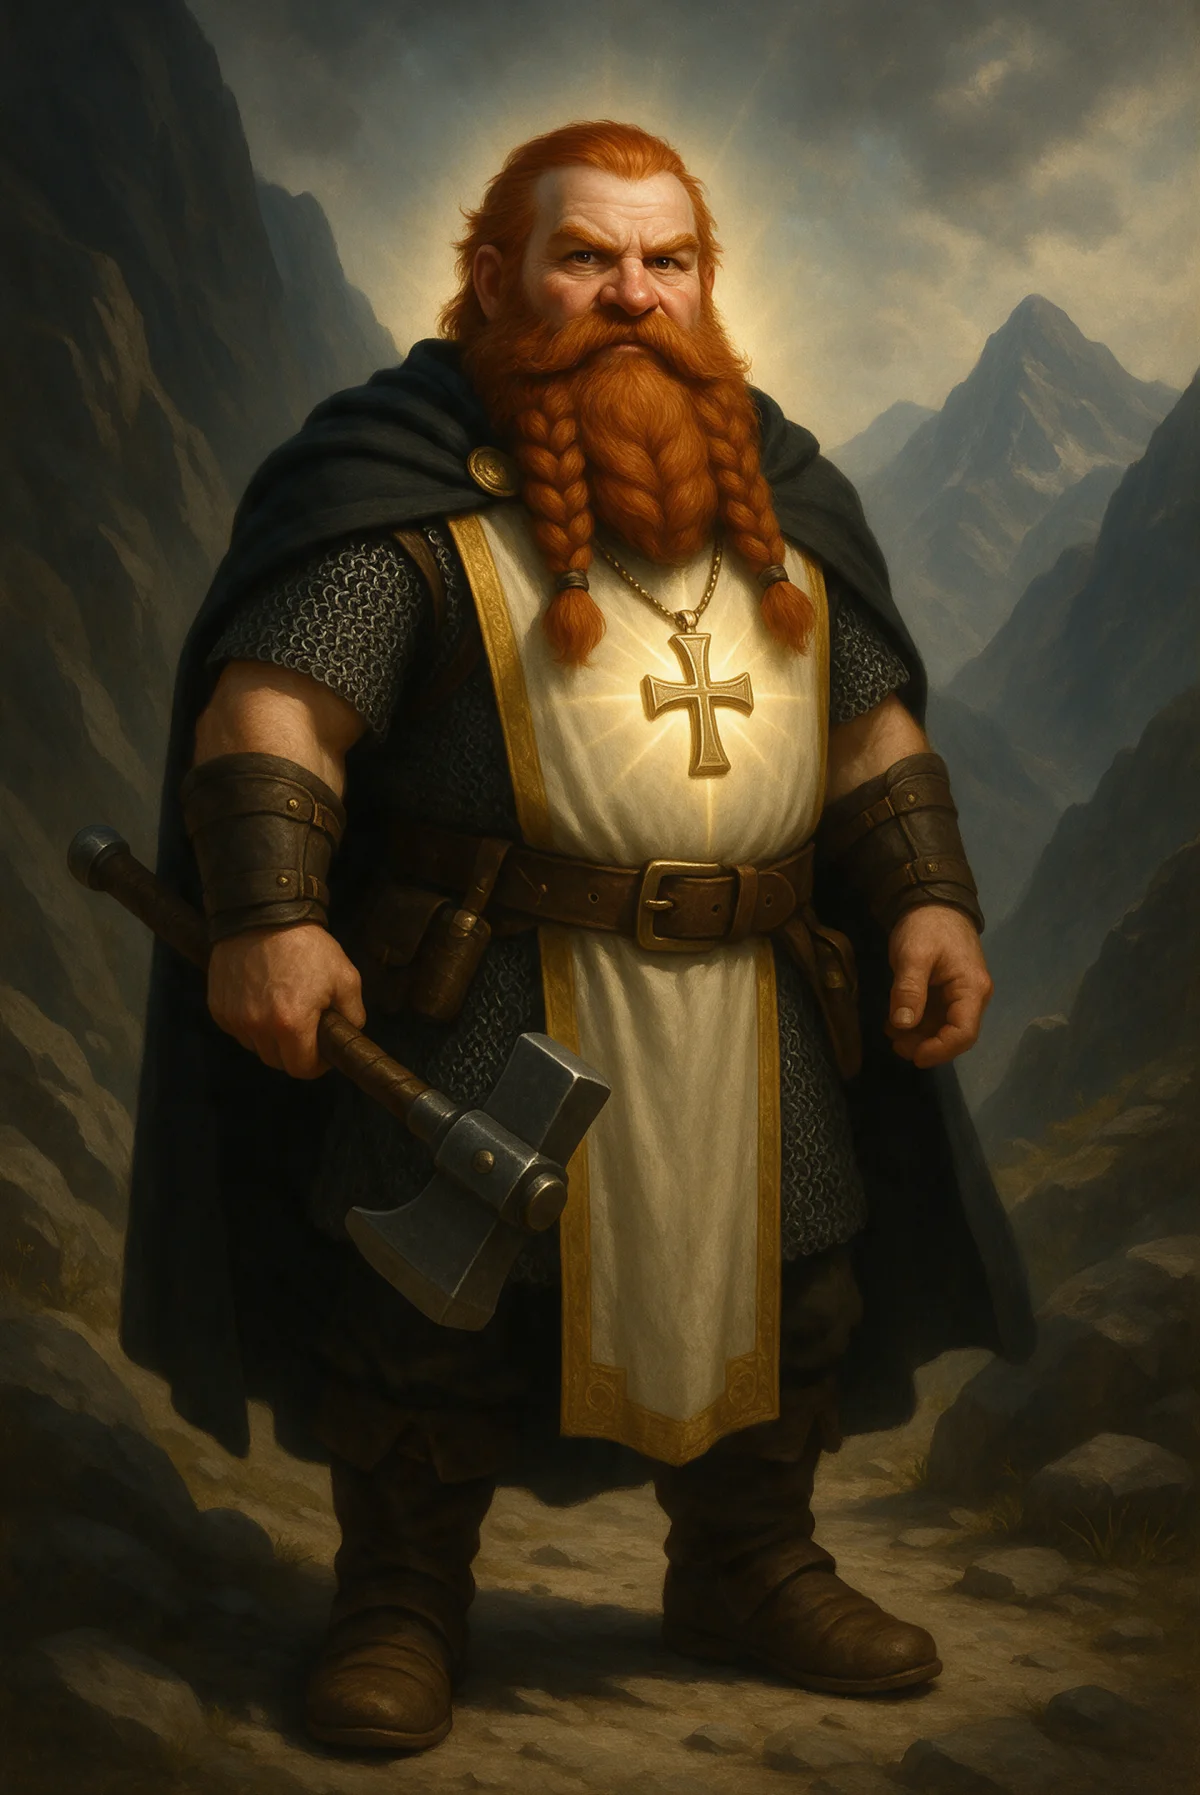
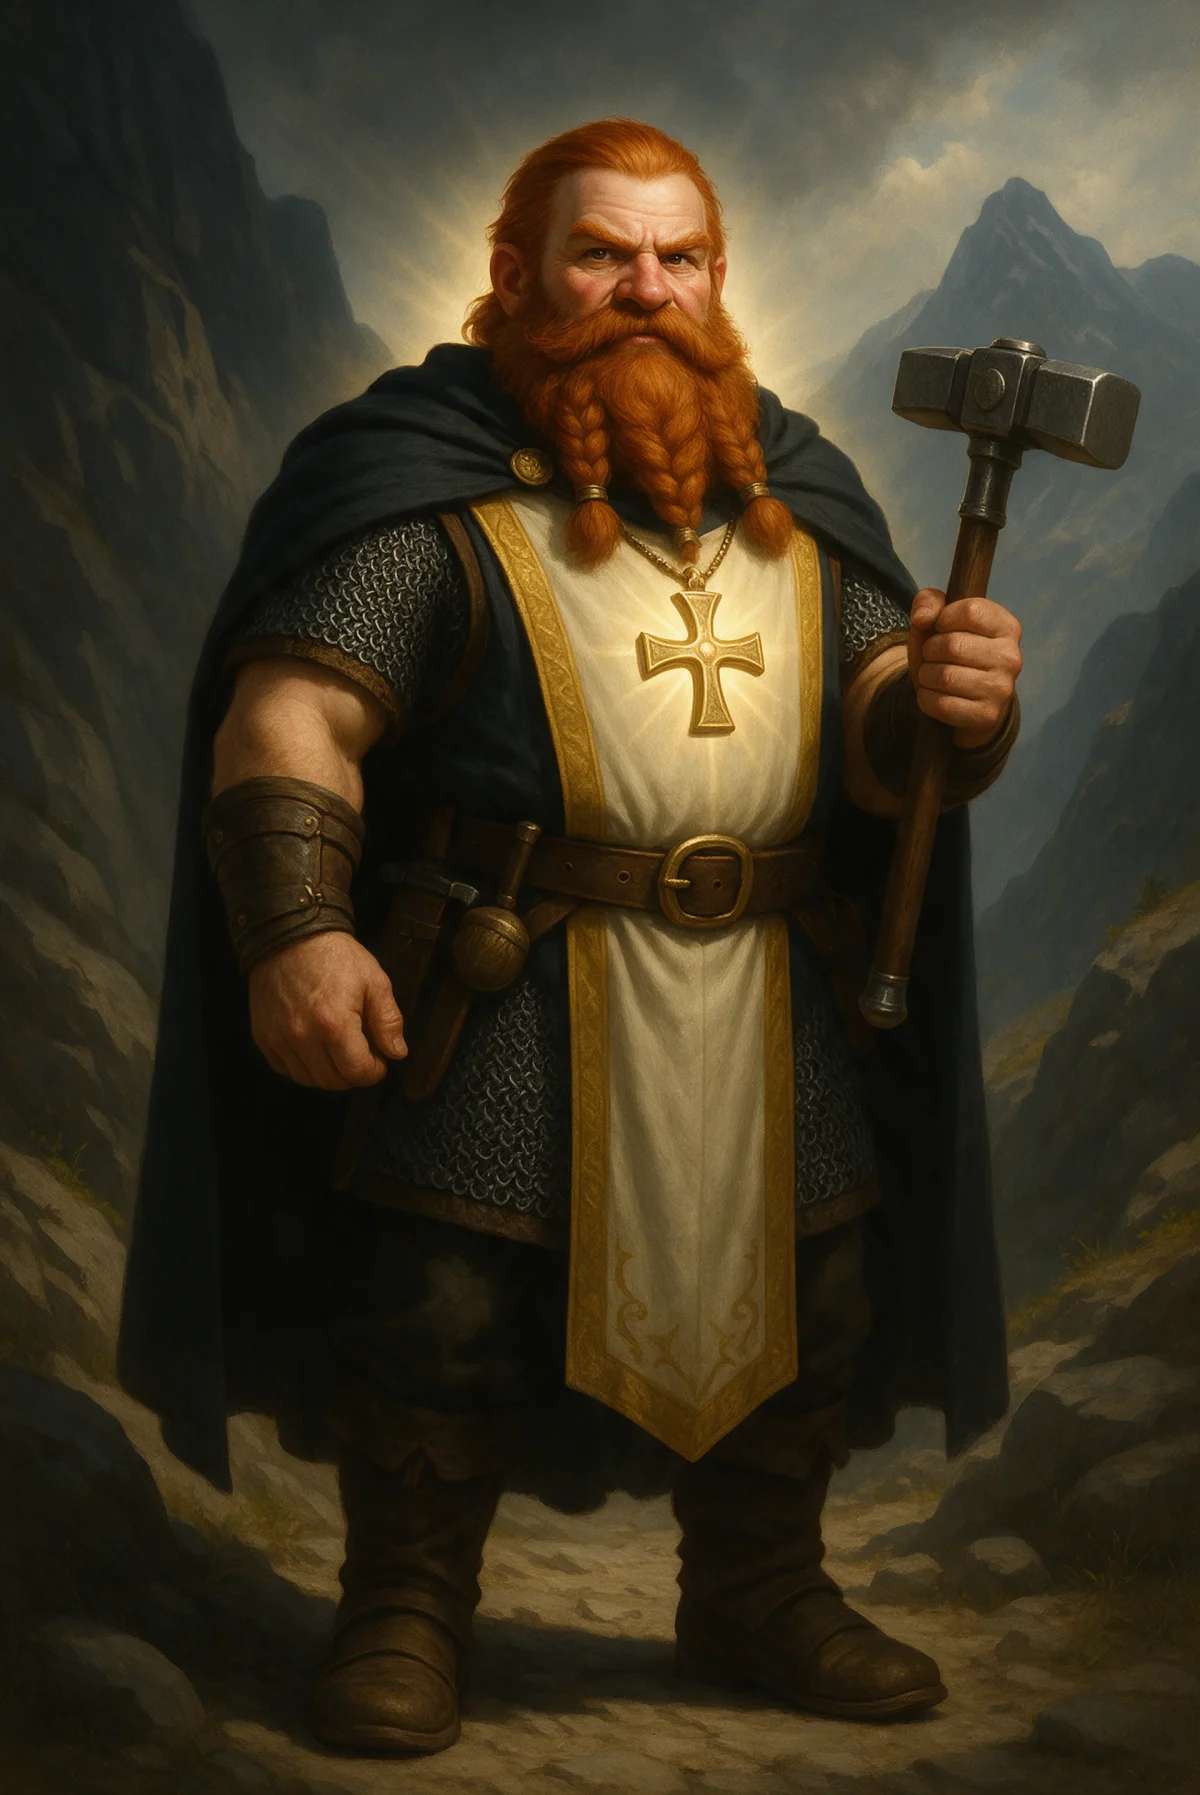
Run 3: Dwarf Cleric

diff --git a/public/gallery/index.html b/public/gallery/index.html
@@ -48,7 +48,7 @@
     <a class="card" href="/gallery/katari-rogue/" data-family="Nano Banana"><img src="/gallery/img/02-katari-rogue-600.webp" width="600" height="895" alt="AI-generated concept art of a snow-leopard-like cat-folk rogue with smoky grey fur, dark rosettes and green eyes, wearing a dark hood and leather armour, crouched on a ruined wall at night with a dagger and a satchel"><span class="card-body"><span class="card-title">Katari Rogue</span><span class="chips"><span class="chip model">Nano Banana 2.1</span><span class="chip">Digital concept art</span></span></span></a>
     <a class="card" href="/gallery/faerie-sorcerer/" data-family="Qwen"><img src="/gallery/img/03-faerie-sorcerer-600.webp" width="600" height="901" alt="AI-generated watercolour of a pale, silver-haired faerie with violet eyes, pointed ears and veined, membranous insect wings, wearing simple robes and a circlet and holding crackling violet magic in a misty forest"><span class="card-body"><span class="card-title">Faerie Sorcerer</span><span class="chips"><span class="chip model">Qwen Image Pro</span><span class="chip">Watercolour</span></span></span></a>
     <a class="card" href="/gallery/tiefling-warlock/" data-family="Nano Banana"><img src="/gallery/img/04-tiefling-warlock-600.webp" width="600" height="895" alt="AI-generated dark fantasy painting of a crimson-skinned tiefling woman with curled horns, gold eyes and pale eldritch markings, wearing a hooded cloak and amulet and holding a spellbook, looking over her shoulder in a firelit tavern" loading="lazy"><span class="card-body"><span class="card-title">Tiefling Warlock</span><span class="chips"><span class="chip model">Nano Banana 2.1</span><span class="chip">Dark fantasy painting</span></span></span></a>
-    <a class="card" href="/gallery/dwarf-cleric/" data-family="Seedream"><img src="/gallery/img/05-dwarf-cleric-600.webp" width="600" height="898" alt="AI-generated oil painting of a stern red-bearded dwarf cleric in chainmail, a white tabard and black cloak, with a glowing holy symbol and a warhammer, standing on a rocky mountain pass" loading="lazy"><span class="card-body"><span class="card-title">Dwarf Cleric</span><span class="chips"><span class="chip model">Seedream 5 Pro</span><span class="chip">Classic oil painting</span></span></span></a>
+    <a class="card" href="/gallery/dwarf-cleric/" data-family="Seedream"><img src="/gallery/img/05-dwarf-cleric-600.webp" width="600" height="898" alt="AI-generated oil painting of a stern red-bearded dwarf cleric in chainmail, a white and gold tabard and black cloak, with a glowing holy symbol and a warhammer, standing on a rocky mountain pass" loading="lazy"><span class="card-body"><span class="card-title">Dwarf Cleric</span><span class="chips"><span class="chip model">Seedream 5 Pro</span><span class="chip">Classic oil painting</span></span></span></a>
     <a class="card" href="/gallery/dragonborn-paladin/" data-family="WAN"><img src="/gallery/img/06-dragonborn-paladin-600.webp" width="600" height="901" alt="AI-generated illustration of a bronze-scaled dragonborn paladin in silver full plate armour with a winged crest and a dark red cloak, resting a hand on a longsword planted in the sand of sunlit desert ruins" loading="lazy"><span class="card-body"><span class="card-title">Dragonborn Paladin</span><span class="chips"><span class="chip model">WAN 2.7 Pro</span><span class="chip">Digital concept art</span></span></span></a>
     <a class="card" href="/gallery/halfling-bard/" data-family="Nano Banana"><img src="/gallery/img/07-halfling-bard-600.webp" width="600" height="895" alt="AI-generated anime-style illustration of a smiling halfling bard with short brown hair and blue eyes, wearing a feathered hat, a colourful scarf and brown leather armour, with a rapier and a lute in a firelit tavern" loading="lazy"><span class="card-body"><span class="card-title">Halfling Bard</span><span class="chips"><span class="chip model">Nano Banana 2.1</span><span class="chip">Anime-inspired</span></span></span></a>
     <a class="card" href="/gallery/leshy-druid/" data-family="Qwen"><img src="/gallery/img/08-leshy-druid-600.webp" width="600" height="901" alt="AI-generated watercolour of a bark-skinned leshy druid with a gourd-shaped head, green eyes and white blossoms, dressed in leaves and moss with satchels and a twisted wooden staff, standing in a misty swamp" loading="lazy"><span class="card-body"><span class="card-title">Leshy Druid</span><span class="chips"><span class="chip model">Qwen Image Pro</span><span class="chip">Watercolour</span></span></span></a>

diff --git a/public/gallery/dwarf-cleric/index.html b/public/gallery/dwarf-cleric/index.html
@@ -27,8 +27,8 @@
 
   <main class="character">
     <figure class="character-img">
-      <img src="/gallery/img/05-dwarf-cleric-full.webp" width="1200" height="1795" alt="AI-generated oil painting of a stern red-bearded dwarf cleric in chainmail, a white tabard and black cloak, with a glowing holy symbol and a warhammer, standing on a rocky mountain pass">
-      <figcaption><a href="/gallery/original/05-dwarf-cleric.png">View original file</a> (PNG, 6.2 MB): the full-size image exactly as downloaded from OpenMov, before it was resized for the web.</figcaption>
+      <img src="/gallery/img/05-dwarf-cleric-full.webp" width="1200" height="1795" alt="AI-generated oil painting of a stern red-bearded dwarf cleric in chainmail, a white and gold tabard and black cloak, with a glowing holy symbol and a warhammer, standing on a rocky mountain pass">
+      <figcaption><a href="/gallery/original/05-dwarf-cleric.png">View original file</a> (PNG, 6.1 MB): the full-size image exactly as downloaded from OpenMov, before it was resized for the web.</figcaption>
     </figure>
 
     <div class="panel character-info">
@@ -39,7 +39,7 @@
       </div>
 
       <h2>How it turned out</h2>
-      <p class="note">This one really looks like a classic oil painting, with a braided red beard, a chain shirt, a black cloak and the glowing holy symbol picked out by the side light. Seedream chose a cross-shaped symbol and a halo-like glow, even though the prompt never named a faith.</p>
+      <p class="note">A classic oil painting, almost identical in composition to Seedream&#x27;s run-2 version: a braided red beard, a chain shirt under a white and gold tabard, a black cloak and a glowing holy symbol in the side light on a rocky mountain pass. This time the warhammer is unmistakably a hammer, where run 2&#x27;s had an axe blade. Seedream again chose a cross-shaped symbol and a halo-like glow, though the prompt never named a faith.</p>
 
       <h2>The prompt</h2>
       <pre class="prompt" id="prompt">Generate an image.
